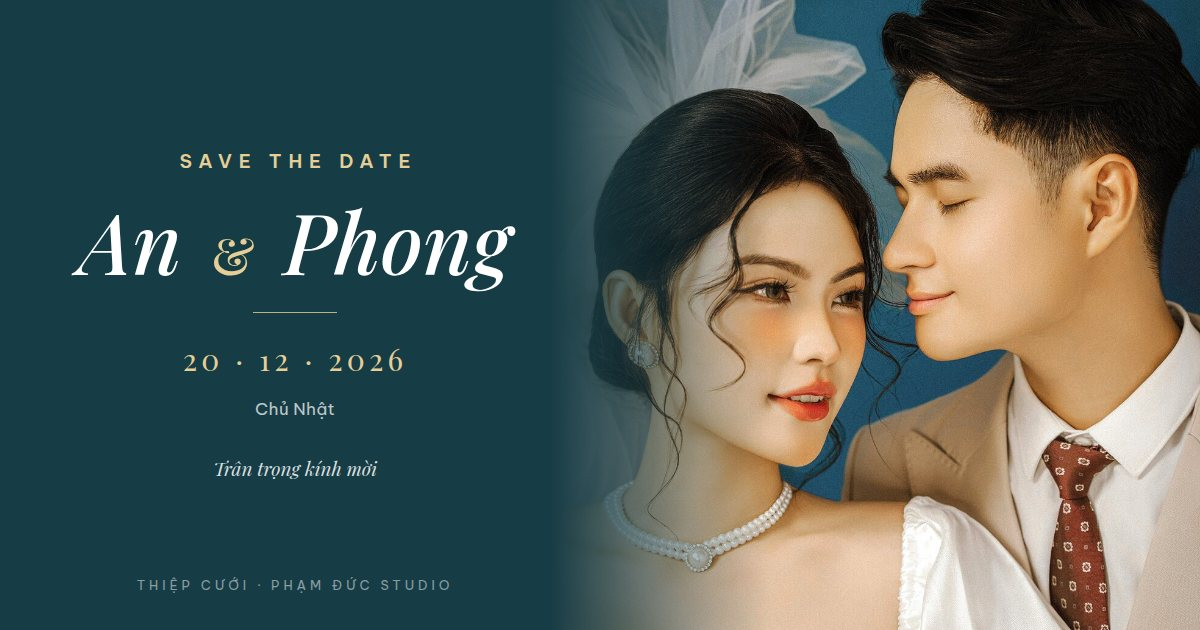
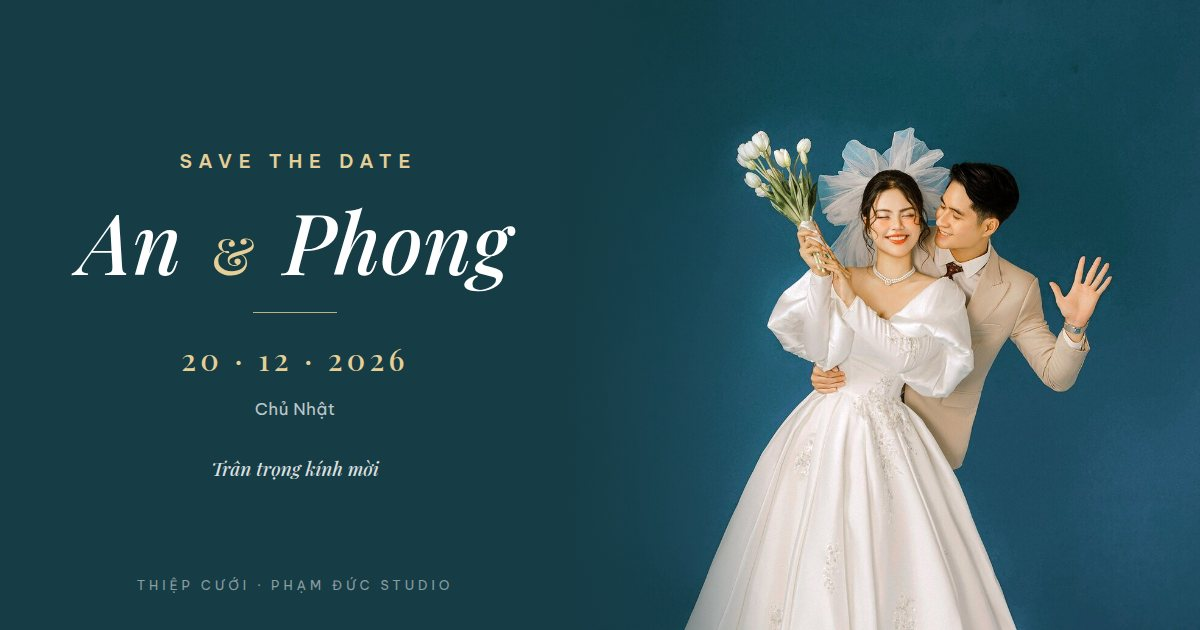
Thiệp riêng an-phong-meww: chụp lại ảnh xem trước (#4)

diff --git a/thiep/an-phong-meww/index.html b/thiep/an-phong-meww/index.html
@@ -31,7 +31,7 @@
 <meta property="og:site_name" content="Phạm Đức Studio">
 <meta property="og:title" content="An &amp; Phong · Thiệp mời cưới">
 <meta property="og:description" content="Trân trọng kính mời bạn tới chung vui cùng hai gia đình — Chủ Nhật, 20.12.2026.">
-<meta property="og:image" content="https://phamducstudio.vn/thiep/an-phong-meww/share.jpg?v=4172fc56">
+<meta property="og:image" content="https://phamducstudio.vn/thiep/an-phong-meww/share.jpg?v=5fdadbe2">
 <meta property="og:image:width" content="1200">
 <meta property="og:image:height" content="630">
 <!--/THIEP:META-->
